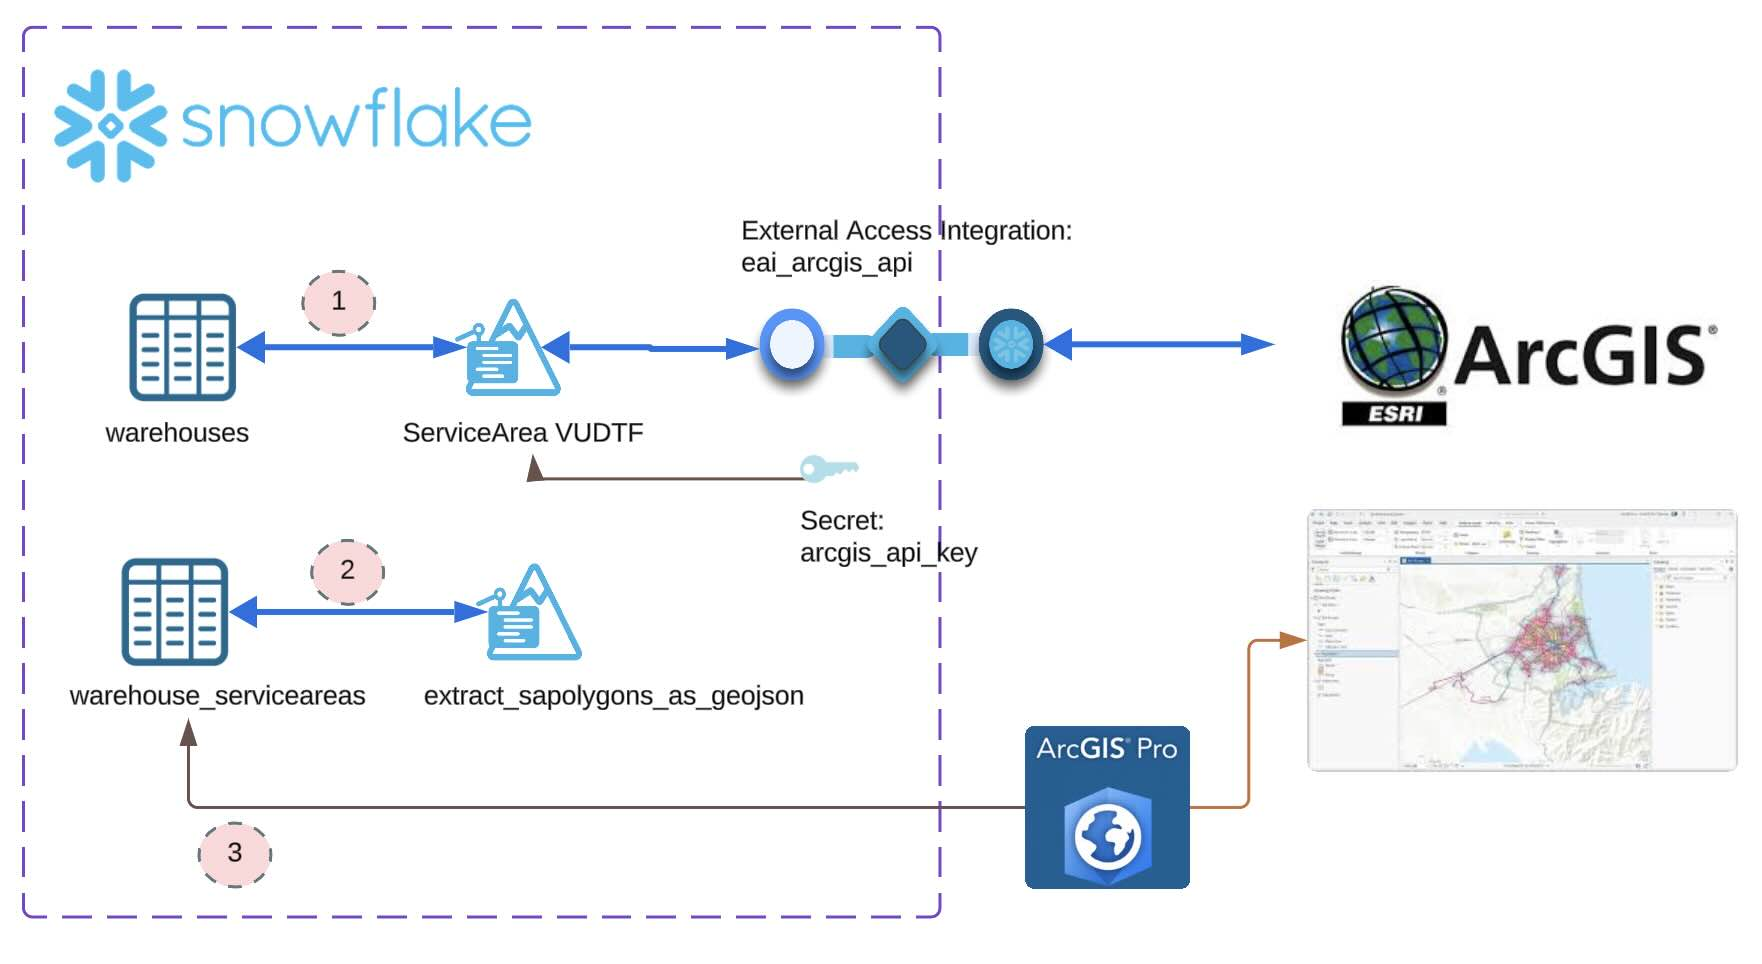
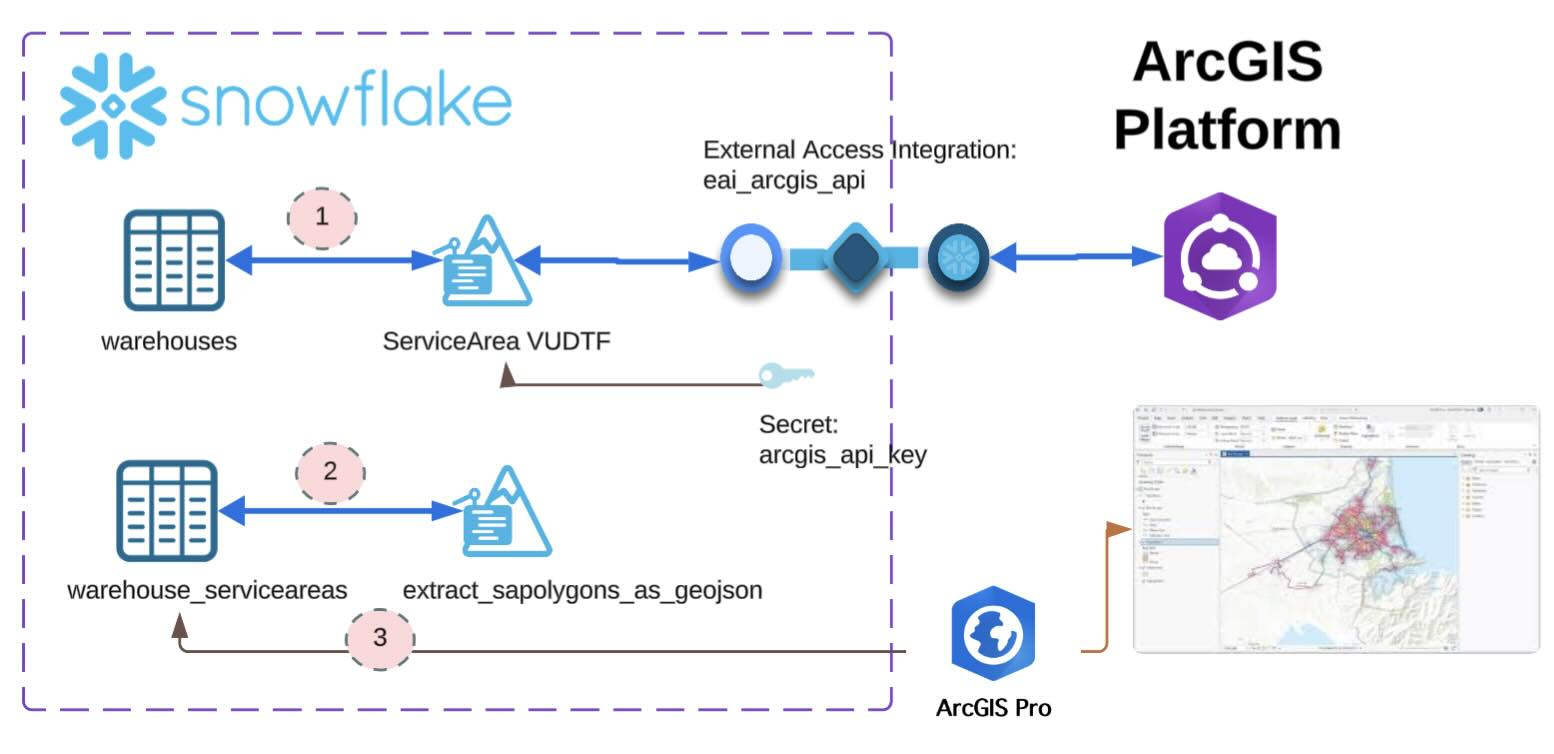
fix for solution diagram and update the listing numbers

diff --git a/site/sfguides/src/interfacing_with_arcgis/interfacing_with_arcgis.md b/site/sfguides/src/interfacing_with_arcgis/interfacing_with_arcgis.md
@@ -37,9 +37,9 @@ You can use service areas to build applications that:
 #### What You’ll Build
 ![Solution](assets/solution.jpg)
 
-- 1. Develop a Snowpark UDF which invokves the ArcGIS ServiceArea service function and stores the response back into the source table.
-- 2. Develop a Snowpark UDF which extracts and converts the geometry from ArcGIS reponse into Geojson co-ordinates.
-- 3. Connect and visualize the service areas / isochrones using ArcGIS Pro.
+  1. Develop a Snowpark UDF which invokves the ArcGIS ServiceArea service function and stores the response back into the source table.
+  2. Develop a Snowpark UDF which extracts and converts the geometry from ArcGIS reponse into Geojson co-ordinates.
+  3. Connect and visualize the service areas / isochrones using ArcGIS Pro.
 
 ### What You’ll Need 
 
